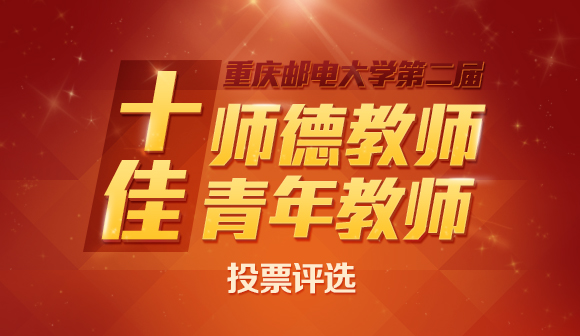
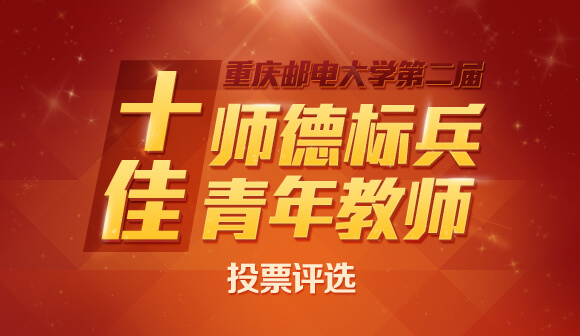
debug and wenan

Changed region(s): [[0.5897, 0.2976, 0.8379, 0.506]]

diff --git a/app/Http/Controllers/IndexController.php b/app/Http/Controllers/IndexController.php
@@ -249,7 +249,7 @@ FROM
         $morality = Candidate::where('type', '1')->where('status', '1')->get();
         if(!$re) {
 //            return view('attention')->with('openid', $openid['openid']);
-            return view('mobile')->with('morality', $morality)->with('morality_vote', 'NO')->with('type', 1)->with('bind', '0')->with('openid', $openid['openid']);
+            return view('mobile')->with('morality', $morality)->with('morality_vote', 'NO')->with('type', 1)->with('bind', '0')->with('openid', $openid['openid'])->with('title', '十佳师德标兵');
         }
         $user = Auth::user();
         $morality_voted = UserVote::where('user_id', '=', $user->id)
@@ -271,7 +271,7 @@ FROM
         } else {
             $morality_voted_peo = "YES";
         }
-        return view('mobile')->with('morality', $morality)->with('morality_vote', $morality_voted_peo)->with('type', 1)->with('bind', '1')->with('openid', $openid['openid']);
+        return view('mobile')->with('morality', $morality)->with('morality_vote', $morality_voted_peo)->with('type', 1)->with('bind', '1')->with('openid', $openid['openid'])->with('title', '十佳师德标兵');
     }
 
     //移动端青年页面
@@ -281,7 +281,7 @@ FROM
         $morality = Candidate::where('type', '2')->where('status', '1')->get();
         if(!$re) {
 //            return view('attention')->with('openid', $openid['openid']);;
-            return view('mobile')->with('morality', $morality)->with('morality_vote', 'NO')->with('type', 2)->with('bind', '0')->with('openid', $openid['openid']);
+            return view('mobile')->with('morality', $morality)->with('morality_vote', 'NO')->with('type', 2)->with('bind', '0')->with('openid', $openid['openid'])->with('title', '十佳青年教师');
         }
         $user = Auth::user();
         $morality_voted = UserVote::where('user_id', '=', $user->id)
@@ -303,7 +303,7 @@ FROM
         } else {
             $morality_voted_peo = "YES";
         }
-        return view('mobile')->with('morality', $morality)->with('morality_vote', $morality_voted_peo)->with('type', 2)->with('bind', '1')->with('openid', $openid['openid']);
+        return view('mobile')->with('morality', $morality)->with('morality_vote', $morality_voted_peo)->with('type', 2)->with('bind', '1')->with('openid', $openid['openid'])->with('title', '十佳青年教师');
     }
     public function weixinLogin($openid) {
         $result = $this->bindVerify($openid);

diff --git a/resources/views/rank.blade.php b/resources/views/rank.blade.php
@@ -85,10 +85,6 @@
             </tbody>
         </table>
     </div>
-    <div class="footer">
-        <p class="footer_p">地址：重庆市南岸区崇文路2号（重庆邮电大学内） 400065 E-mail:redrock@cqupt.edu.cn (023-62461084)</p>
-    </div>
-</div>
 @stop
 @section('js')
 @parent

diff --git a/resources/views/mobile.blade.php b/resources/views/mobile.blade.php
@@ -303,7 +303,7 @@
 <body>
 <div class="container">
     <nav class="nav title">
-        <h3>十佳师德标兵 十佳青年教师</h3>
+        <h3>{{$title}}</h3>
     </nav>
     <header class="nav logo">
         <div class="img_wrapper"><img src="img/banner.jpg" alt="wrapper"/></div>
